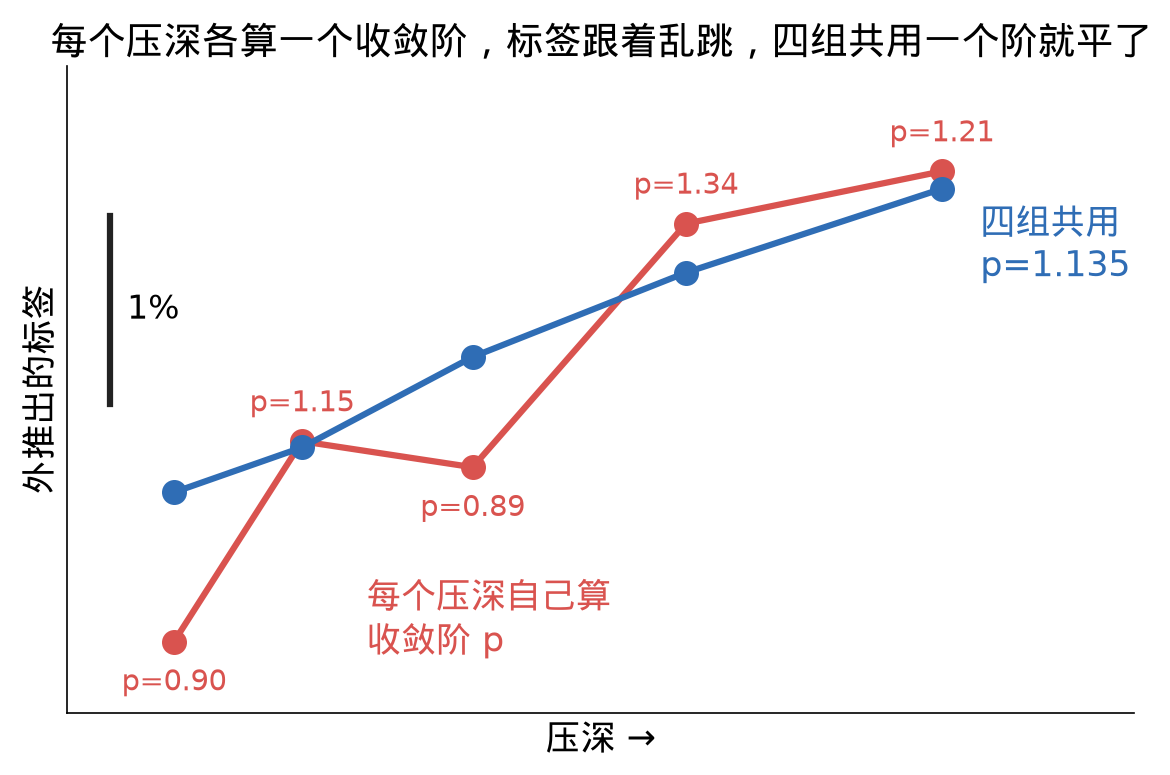
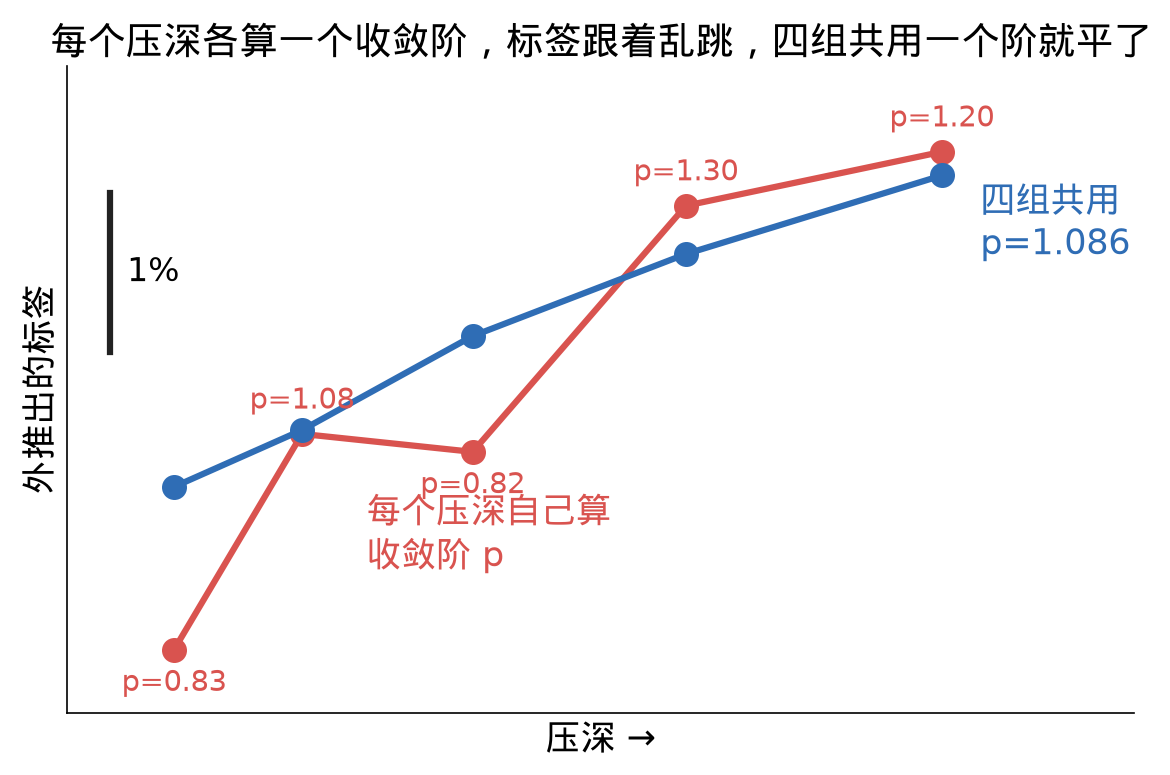
week3_4: 6.1 elliptic-branch paragraph; fig06b, fig13, s8_4_corrected redrawn from formal labels with captions (sandbox 19893b4, f6179e6)

diff --git a/week3_4.html b/week3_4.html
@@ -513,7 +513,7 @@ html.annot-on #annot-capture { display: block; }
 <p>\[\color{#c0392b}{\frac{U_1-U_2}{U_2-U_3}=2^p\ \Longrightarrow\ p=\log_2\frac{U_1-U_2}{U_2-U_3}}.\]</p>
 <p>即看相邻两档的变化每细一档缩小几倍。\(p\) 是两个小差相除得到的，稍有噪声就乱跳；逐压深各算一个 \(p\) 会给标签带进 0.4%–1% 的假起伏（各组最大值）。因此同一实验族所有压深共用一个 \(p\)（取各压深的中位数）。</p>
 <figure style="margin:12px 0"><img src="assets/images/w34_core_w34_3.4_c.png" style="width:767px;max-width:100%;height:auto" alt="两张小图的横轴都是单元尺寸，从右到左依次是 \(h\)、\(h/2\)、\(h/4\)，越往左网格越细；纵轴是算出的能量，三个黑点是三档读数 \(U_1\)、\(U_2\)、\(U_3\)，按误差模型画。红条是粗档到中档变了多少，\(U_1-U_2\)；蓝条是中档到细档又变了多少，\(U_2-U_3\)。左图 \(p=1\)，蓝条正好是红条的一半；右图 \(p=2\)，蓝条只有红条的四分之一。所以只要看网格每细一档、相邻两档的变化缩小了几倍，这个倍数就是 \(2^p\)，取以 2 为底的对数就得到收敛阶，正是上面的 \(p\) 公式。也正因为 \(p\) 是两个很小的差相除得来的，读数稍有噪声它就会乱跳。" loading="lazy"><figcaption class="small">两张小图的横轴都是单元尺寸，从右到左依次是 \(h\)、\(h/2\)、\(h/4\)，越往左网格越细；纵轴是算出的能量，三个黑点是三档读数 \(U_1\)、\(U_2\)、\(U_3\)，按误差模型画。红条是粗档到中档变了多少，\(U_1-U_2\)；蓝条是中档到细档又变了多少，\(U_2-U_3\)。左图 \(p=1\)，蓝条正好是红条的一半；右图 \(p=2\)，蓝条只有红条的四分之一。所以只要看网格每细一档、相邻两档的变化缩小了几倍，这个倍数就是 \(2^p\)，取以 2 为底的对数就得到收敛阶，正是上面的 \(p\) 公式。也正因为 \(p\) 是两个很小的差相除得来的，读数稍有噪声它就会乱跳。</figcaption></figure>
-<figure style="margin:12px 0"><img src="assets/images/w34_fig06b_order_jumps.png" style="width:516px;max-width:100%;height:auto" alt="这张图展示了收敛阶 p 的取法怎样影响标签。收敛阶 p 表示网格每细一半误差缩小多少，横轴是压深，纵轴是外推出的标签，这里画的是四组实验中压头几乎刚性的那一组的 5 个压深（0.006–0.024）。红色折线是每个压深用自己算的 p 外推，各点旁标着它的 p，蓝色折线是四组共用的 p（正式标签：逐压深 0.83、1.08、0.82、1.30、1.20，共用 p = 1.086；图上标的 0.90、1.15、0.89、1.34、1.21 与 1.135 是旧版标签），共用 p 由四组 20 个压深各自的阶定出（每组 6 个压深里，压深 0.004 那一档实测阶为负，不计）。通过对比红线的上下锯齿和蓝线的平滑上升，再用左边 1% 的黑色比例尺量，可以看出 p 一跳，标签就跟着跳，这一组的跳动幅度接近 1%，四组共用一个 p 以后这种假起伏消失了。" loading="lazy"><figcaption class="small">这张图展示了收敛阶 p 的取法怎样影响标签。收敛阶 p 表示网格每细一半误差缩小多少，横轴是压深，纵轴是外推出的标签，这里画的是四组实验中压头几乎刚性的那一组的 5 个压深（0.006–0.024）。红色折线是每个压深用自己算的 p 外推，各点旁标着它的 p，蓝色折线是四组共用的 p（正式标签：逐压深 0.83、1.08、0.82、1.30、1.20，共用 p = 1.086；图上标的 0.90、1.15、0.89、1.34、1.21 与 1.135 是旧版标签），共用 p 由四组 20 个压深各自的阶定出（每组 6 个压深里，压深 0.004 那一档实测阶为负，不计）。通过对比红线的上下锯齿和蓝线的平滑上升，再用左边 1% 的黑色比例尺量，可以看出 p 一跳，标签就跟着跳，这一组的跳动幅度接近 1%，四组共用一个 p 以后这种假起伏消失了。</figcaption></figure>
+<figure style="margin:12px 0"><img src="assets/images/w34_fig06b_order_jumps.png" style="width:516px;max-width:100%;height:auto" alt="这张图展示了收敛阶 p 的取法怎样影响标签。收敛阶 p 表示网格每细一半误差缩小多少，横轴是压深，纵轴是外推出的标签，这里画的是四组实验中压头几乎刚性的那一组的 5 个压深（0.006–0.024）。红色折线是每个压深用自己算的 p 外推，各点旁标着它的 p（0.83、1.08、0.82、1.30、1.20），蓝色折线是四组共用 p = 1.086，共用 p 由四组 20 个压深各自的阶定出（每组 6 个压深里，压深 0.004 那一档实测阶为负，不计）。通过对比红线的上下锯齿和蓝线的平滑上升，再用左边 1% 的黑色比例尺量，可以看出 p 一跳，标签就跟着跳，这一组的跳动幅度接近 1%，四组共用一个 p 以后这种假起伏消失了。" loading="lazy"><figcaption class="small">这张图展示了收敛阶 p 的取法怎样影响标签。收敛阶 p 表示网格每细一半误差缩小多少，横轴是压深，纵轴是外推出的标签，这里画的是四组实验中压头几乎刚性的那一组的 5 个压深（0.006–0.024）。红色折线是每个压深用自己算的 p 外推，各点旁标着它的 p（0.83、1.08、0.82、1.30、1.20），蓝色折线是四组共用 p = 1.086，共用 p 由四组 20 个压深各自的阶定出（每组 6 个压深里，压深 0.004 那一档实测阶为负，不计）。通过对比红线的上下锯齿和蓝线的平滑上升，再用左边 1% 的黑色比例尺量，可以看出 p 一跳，标签就跟着跳，这一组的跳动幅度接近 1%，四组共用一个 p 以后这种假起伏消失了。</figcaption></figure>
 <h4>球面细分</h4>
 <p>刚球是正二十面体细分若干次得到的多面体。三角面比真球面凹进去，在一个三角面上平均下来，凹进的深度与 \(\ell^2/R\) 成正比（\(\ell\) 为边长）。细分一档边长减半，凹陷缩为四分之一，所以这一项的收敛阶由几何定为 \(p=2\)。目前这一项只做了估计（见 4.4 节误差账），还没有写进正式标签。</p>
 <p>为什么与 \(\ell^2/R\) 成正比：看两个典型点，边中点约 \(\ell^2/(8R)\)，面中心约 \(\ell^2/(6R)\)（整面平均也等于 \(\ell^2/(8R)\)）。这两个数来自弦高：一个平面截球面得到半径 \(\rho\) 的截圆，截圆中心处平面比球面凹进的深度，按 2.3 节同样的勾股近似（\(R-\sqrt{R^2-\rho^2}\)，略去高阶项）是</p>
@@ -792,7 +792,7 @@ html.annot-on #annot-capture { display: block; }
 <figure style="margin:12px 0"><img src="assets/images/w34_s8_4_similarity.png" style="width:520px;max-width:100%;height:auto" alt="这张图展示了两个半径的标签不满足相似律，同一 δ/R 下 R=2 比 R=1 高 0.745%。两条线是半径 1 和 2 的刚球压同一种软块（E = 1e5、ν = 0.3）的「标签 ÷ Hertz」，横轴是压深除以半径，按相似律蓝线（R=1）和橙线（R=2）应该重合，但橙线整体在蓝线上方，红色箭头标出 δ/R = 0.006 处的差。4.3 节那张图里能量比能对上 √2，是因为两个半径的误差部分抵消了。" loading="lazy"><figcaption class="small">这张图展示了两个半径的标签不满足相似律，同一 δ/R 下 R=2 比 R=1 高 0.745%。两条线是半径 1 和 2 的刚球压同一种软块（E = 1e5、ν = 0.3）的「标签 ÷ Hertz」，横轴是压深除以半径，按相似律蓝线（R=1）和橙线（R=2）应该重合，但橙线整体在蓝线上方，红色箭头标出 δ/R = 0.006 处的差。4.3 节那张图里能量比能对上 √2，是因为两个半径的误差部分抵消了。</figcaption></figure>
 <figure style="margin:12px 0"><img src="assets/images/w34_s8_4_facets.png" style="width:595px;max-width:100%;height:auto" alt="这张图展示了只换球面三角形的细分档，标签就变 0.07% 到 0.5%。球面由三角形拼成，三角形越细越接近真球面；蓝线是 R=1 把三角形加细，标签升高 0.07% 到 0.25%，红线是 R=2 把三角形变粗，标签降低 0.16% 到 0.50%，灰色横线是不变，两条线都是压深越浅离它越远。两个半径用的细分档不同，所以这一项直接进了上面那张相似律图里的差。图里是两档细分互换后实测的变化；正文 4.3、4.4 节的 R=1 偏低 0.13%–0.34%（R=2 更小）是细网格直接外推得到的各自细分档相对真球面的偏低量，不是同一个量。" loading="lazy"><figcaption class="small">这张图展示了只换球面三角形的细分档，标签就变 0.07% 到 0.5%。球面由三角形拼成，三角形越细越接近真球面；蓝线是 R=1 把三角形加细，标签升高 0.07% 到 0.25%，红线是 R=2 把三角形变粗，标签降低 0.16% 到 0.50%，灰色横线是不变，两条线都是压深越浅离它越远。两个半径用的细分档不同，所以这一项直接进了上面那张相似律图里的差。图里是两档细分互换后实测的变化；正文 4.3、4.4 节的 R=1 偏低 0.13%–0.34%（R=2 更小）是细网格直接外推得到的各自细分档相对真球面的偏低量，不是同一个量。</figcaption></figure>
 <p>把两项都扣掉后（球面项按 10-22 那版的估计，与上一句的 0.13%–0.34% 口径不同），两个半径的差从 0.97% / 0.75% 降到 −0.19% / +0.17%（\(\delta/R=0.004\) / 0.006）。</p>
-<figure style="margin:12px 0"><img src="assets/images/w34_s8_4_corrected.png" style="width:607px;max-width:100%;height:auto" alt="这张图展示了修掉球面离散和间隙两项后，两个半径之间的差明显变小。灰柱是标签原样时 R=2 比 R=1 高出的量，δ/R = 0.004 和 0.006 处分别是 0.971% 和 0.745%；蓝柱是两项都修正后的结果，降到 0.116% 和 0.437%。（图为旧版标签；按正文 4.3 节的最终重算，两项都扣掉后为 −0.19% / +0.17%）" loading="lazy"><figcaption class="small">这张图展示了修掉球面离散和间隙两项后，两个半径之间的差明显变小。灰柱是标签原样时 R=2 比 R=1 高出的量，δ/R = 0.004 和 0.006 处分别是 0.971% 和 0.745%；蓝柱是两项都修正后的结果，降到 0.116% 和 0.437%。（图为旧版标签；按正文 4.3 节的最终重算，两项都扣掉后为 −0.19% / +0.17%）</figcaption></figure>
+<figure style="margin:12px 0"><img src="assets/images/w34_s8_4_corrected.png" style="width:612px;max-width:100%;height:auto" alt="这张图展示了修掉球面离散和间隙两项后，两个半径之间的差明显变小。灰柱是标签原样时 R=2 比 R=1 高出的量，δ/R = 0.004 和 0.006 处分别是 0.971% 和 0.745%；蓝柱是两项都修正后的结果，降到 −0.186% 和 +0.170%，都在 ±0.2% 以内。" loading="lazy"><figcaption class="small">这张图展示了修掉球面离散和间隙两项后，两个半径之间的差明显变小。灰柱是标签原样时 R=2 比 R=1 高出的量，δ/R = 0.004 和 0.006 处分别是 0.971% 和 0.745%；蓝柱是两项都修正后的结果，降到 −0.186% 和 +0.170%，都在 ±0.2% 以内。</figcaption></figure>
 <h3 id="w4-4" class="numbered">4.4 刚球压平块的误差账</h3>
 
 <p>以轴对称有限元为裁判，把标签与裁判的差拆成已知各项：</p>
@@ -1041,6 +1041,13 @@ html.annot-on #annot-capture { display: block; }
 <h4>单个接触区</h4>
 <p><strong>输入。</strong> 两表面之间的缝隙，以及两侧各自的形状和材料。</p>
 <p><strong>主体能量。</strong> 由解析式直接计算：轴对称时用 2.2 节的降维法，椭圆接触用椭圆 Hertz。</p>
+<p><strong>椭圆接触时怎么修正。</strong> 椭圆分支仍在一条一维轮廓上用降维法，这条轮廓属于一个等效圆，半径由接触处两个主方向上的相对曲率 \(c_1,c_2\) 得到：</p>
+<p>\[R_e=\frac{1}{\sqrt{c_1c_2}}.\]</p>
+<p>椭圆的形状只进一个因子：椭圆 Hertz 能量与半径为 \(R_e\) 的圆的 Hertz 能量之比，它只取决于两个方向的曲率比：</p>
+<p>\[F_U(e)=\frac{U_{\text{椭圆 Hertz}}}{U_H(R_e)}.\]</p>
+<p>骨架把合成模量乘上这个因子：</p>
+<p>\[U_{\text{骨架}}=F_U\cdot\frac{8}{15}E^*\sqrt{R_e}\,\delta^{5/2}.\]</p>
+<p>修正为零时，骨架就严格等于椭圆 Hertz。网络对 \(g\) 的修正仍作用在这条一维等效圆轮廓上，不改变椭圆的形状；椭圆有多扁只通过输入告诉网络：扁度 \(e=\ln(c_{\max}/c_{\min})\)，以及两侧在两个主方向上各占多少曲率。所以椭圆带来的大头由 \(F_U\) 精确算出，网络只补剩下的小量（标签相对椭圆 Hertz 只偏 0.24%–0.51%，见 6.2 节）。</p>
 <p><strong>网络（约 500 个参数）。</strong> 只输出两样小修正：对等效轮廓 \(g\) 的修正，以及（可选，约 40 个参数，本页结果未开）对合成模量 \(E^*\) 的修正。用来补上有限 \(a/R\)、有限尺寸和有限变形造成的偏差（4.2 节那种）。</p>
 <p><strong>结构保证的性质。</strong> 修正项不以压深为输入，修正后的等效轮廓仍随 \(|x|\) 单调增加。因此 2.2 节的两条性质原样保留：</p>
 <ul>
@@ -1049,7 +1056,7 @@ html.annot-on #annot-capture { display: block; }
 </ul>
 <p>两条都由结构保证，不需要事后截断。目前训练只拟合能量，力由能量求导得到；把力也加进损失是下一步。</p>
 <p><strong>为什么两侧要分开输入。</strong> 4.2 节显示，\(E^*\) 相同、但软的是弯的一侧还是平的一侧，结果差 1.7%–3.1%。只给合起来的缝隙和 \(E^*\)，网络就分不出这两种情况。hydro 的压力场按物体各管各的，拆不出「缝隙 + 合成模量」这两个量，而它们正是这个网络的输入。</p>
-<figure style="margin:12px 0"><img src="assets/images/w34_fig13_single_region.png" style="width:941px;max-width:100%;height:auto" alt="这张图展示了两侧的形状和材料为什么要分开输入。左边两幅是两种情况，深色表示硬，浅色表示软：一种是硬球把软的平块压出凹坑，另一种是软球压在硬的平块上，软球底部被压平、块的顶面保持平直，两种情况的缝隙和合成硬度 E* 都一样。右图横轴是压深，纵轴是标签除以 Hertz 解析解的比值，灰色虚线是 Hertz（比值为 1），蓝线是软在平块的情况，红线是软在弯球的情况。通过对比蓝线和红线，以及两端黑色箭头标出的两线之差（正式标签：最小压深处 1.7 个百分点，最大压深处 3.1 个百分点；图上标的 1.6 / 3.0 是旧版标签），可以看出合起来的量完全相同时，能量仍随「软的是哪一侧」变化，所以只给 h 和 E* 时网络分不出这两种情况。" loading="lazy"><figcaption class="small">这张图展示了两侧的形状和材料为什么要分开输入。左边两幅是两种情况，深色表示硬，浅色表示软：一种是硬球把软的平块压出凹坑，另一种是软球压在硬的平块上，软球底部被压平、块的顶面保持平直，两种情况的缝隙和合成硬度 E* 都一样。右图横轴是压深，纵轴是标签除以 Hertz 解析解的比值，灰色虚线是 Hertz（比值为 1），蓝线是软在平块的情况，红线是软在弯球的情况。通过对比蓝线和红线，以及两端黑色箭头标出的两线之差（正式标签：最小压深处 1.7 个百分点，最大压深处 3.1 个百分点；图上标的 1.6 / 3.0 是旧版标签），可以看出合起来的量完全相同时，能量仍随「软的是哪一侧」变化，所以只给 h 和 E* 时网络分不出这两种情况。</figcaption></figure>
+<figure style="margin:12px 0"><img src="assets/images/w34_fig13_single_region.png" style="width:941px;max-width:100%;height:auto" alt="这张图展示了两侧的形状和材料为什么要分开输入。左边两幅是两种情况，深色表示硬，浅色表示软：一种是硬球把软的平块压出凹坑，另一种是软球压在硬的平块上，软球底部被压平、块的顶面保持平直，两种情况的缝隙和合成硬度 E* 都一样。右图横轴是压深，纵轴是标签除以 Hertz 解析解的比值，灰色虚线是 Hertz（比值为 1），蓝线是软在平块的情况，红线是软在弯球的情况。通过对比蓝线和红线，以及两端黑色箭头标出的两线之差（最小压深处 1.7 个百分点，最大压深处 3.1 个百分点），可以看出合起来的量完全相同时，能量仍随「软的是哪一侧」变化，所以只给 h 和 E* 时网络分不出这两种情况。" loading="lazy"><figcaption class="small">这张图展示了两侧的形状和材料为什么要分开输入。左边两幅是两种情况，深色表示硬，浅色表示软：一种是硬球把软的平块压出凹坑，另一种是软球压在硬的平块上，软球底部被压平、块的顶面保持平直，两种情况的缝隙和合成硬度 E* 都一样。右图横轴是压深，纵轴是标签除以 Hertz 解析解的比值，灰色虚线是 Hertz（比值为 1），蓝线是软在平块的情况，红线是软在弯球的情况。通过对比蓝线和红线，以及两端黑色箭头标出的两线之差（最小压深处 1.7 个百分点，最大压深处 3.1 个百分点），可以看出合起来的量完全相同时，能量仍随「软的是哪一侧」变化，所以只给 h 和 E* 时网络分不出这两种情况。</figcaption></figure>
 <h4>接触区之间</h4>
 <p>直接用 2.6 节的方程</p>
 <p>\[\color{#c0392b}{\delta_i=\delta_{e,i}(F_i)+\sum_{j\ne i}\frac{F_j}{\pi E&#x27;\,r_{ij}}},\]</p>
